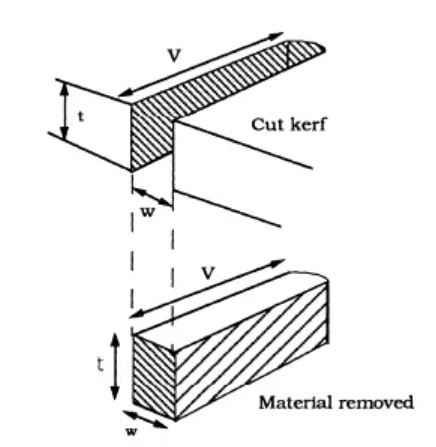
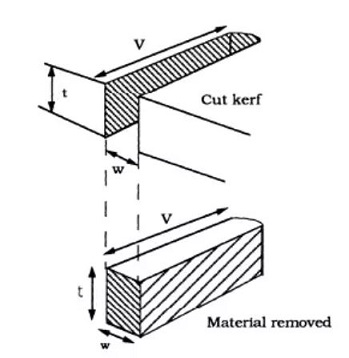
30-09-2020

diff --git a/exp3/content.html b/exp3/content.html
@@ -112,7 +112,7 @@
                                </o1>
                                Using simple energy-balance equation the various parameters can be approximately related as:<br>
                                <center>A.PL = w.t.v.ρ.[Cp. (Tm – To ) + Lf]	.....................	eq (1)<br><br>
-                               <img width="200" height="300" src="../images/lc.jpg" alt="images/3.3.png"><br>
+                               <img src="../images/lc.jpg" alt="images/lc.jpg"><br>
                                <p><i>Fig. 2. Schematic representation of the material removed by laser cutting</p></i></center>
                                Where,<br>
                                 A = absorptivity of material surface,<br>
